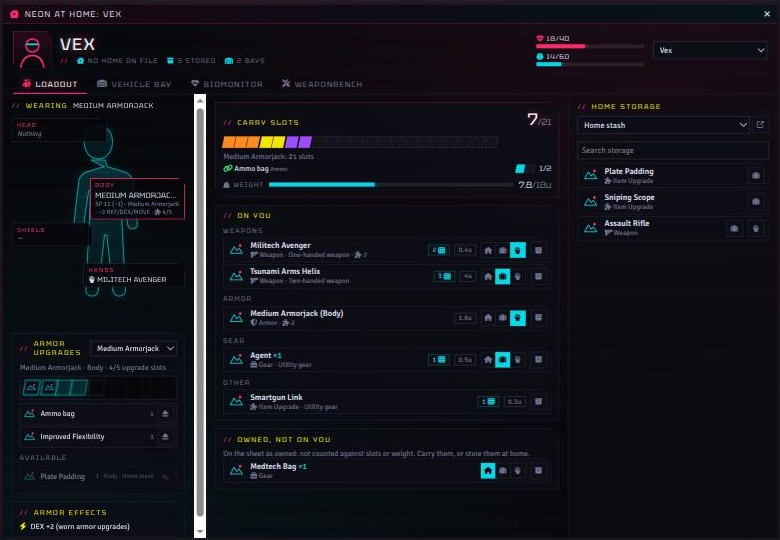
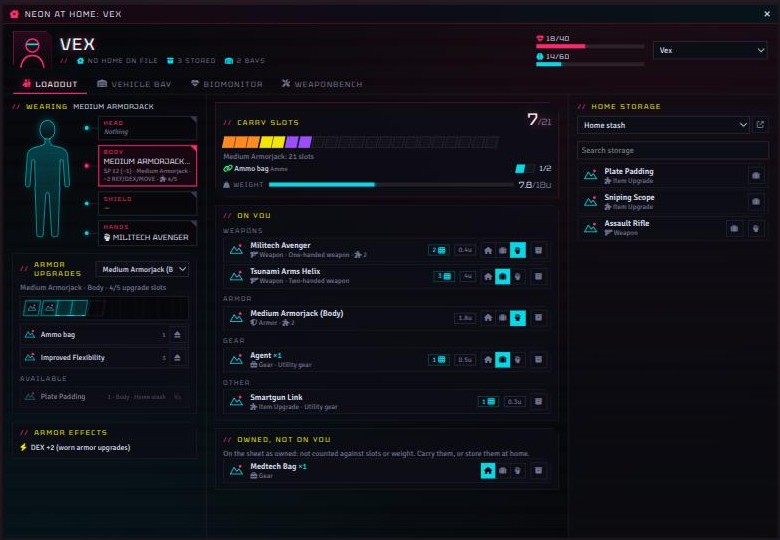
Fix Add Syndrome on v12, unstick the busy window, redraw the body figure (1.0.2)
- Add Syndrome: v12's DialogV2 render callback passes the dialog's HTML
  element, not the dialog; accept either.
- HomeApp.act always clears the busy state and catches render errors;
  refreshFor skips the extra render while an action is running; a tab whose
  context fails shows an error instead of a blank window.
- One symmetric body outline shared by the Loadout and the Biomonitor (neck
  joined, no doubled torso); the Loadout's gear slots sit beside the figure
  on leader lines instead of over it.

diff --git a/styles/neon-home.css b/styles/neon-home.css
@@ -186,7 +186,9 @@
 .neon-home [data-drop].drag-over { outline: 2px solid var(--nah-yellow) !important; background-color: rgba(243, 230, 0, 0.06); }
 .neon-home [data-drag] { cursor: grab; }
 .neon-home [data-drag].is-dragging { opacity: 0.4; }
+.neon-home.is-busy,
 .neon-home .is-busy { cursor: progress; }
+.neon-home.is-busy button,
 .neon-home .is-busy button { pointer-events: none; }
 .neon-home [data-action] { cursor: pointer; }
 
@@ -282,33 +284,37 @@
 .neon-home .nah-col-doll { border-right: 1px solid var(--nah-line); }
 .neon-home .nah-col-store { border-left: 1px solid var(--nah-line); background: rgba(13, 13, 21, 0.45); }
 
-/* the paper doll */
-.neon-home .nah-doll { position: relative; height: 330px; color: var(--nah-cyan); }
-.neon-home .nah-doll-figure { position: absolute; left: 50%; top: 4px; height: 320px; transform: translateX(-50%); filter: drop-shadow(0 0 6px rgba(5, 217, 232, 0.35)); opacity: 0.85; }
+/* the paper doll: the figure, and the gear slots beside it */
+.neon-home .nah-doll { display: grid; grid-template-columns: 112px minmax(0, 1fr); gap: 24px; align-items: start; margin-bottom: 6px; color: var(--nah-cyan); }
+.neon-home .nah-figure { display: block; width: 100%; height: auto; overflow: visible; filter: drop-shadow(0 0 6px rgba(5, 217, 232, 0.35)); }
+.neon-home .nah-fig-body,
+.neon-home .nah-fig-head { stroke: currentColor; stroke-width: 1.6; stroke-linejoin: round; }
+.neon-home .nah-fig-mask { fill: var(--nah-bg); stroke: none; }
+.neon-home .nah-fig-grid path { fill: none; stroke: currentColor; stroke-opacity: 0.3; stroke-dasharray: 2 4; }
+.neon-home .nah-doll-slots { display: flex; flex-direction: column; gap: 8px; min-width: 0; }
 .neon-home .nah-socket {
-  position: absolute;
-  width: 150px;
+  position: relative;
   display: grid;
   gap: 1px;
+  min-width: 0;
   padding: 5px 8px;
   color: var(--nah-text);
   border: 1px solid var(--nah-line-2);
-  background: rgba(7, 7, 11, 0.88);
-  clip-path: var(--nah-notch-card);
+  background: linear-gradient(225deg, var(--nah-line-2) 0 7px, transparent 7px), rgba(7, 7, 11, 0.88);
   font-size: 12px;
   transition: border-color 120ms, box-shadow 120ms;
 }
+/* leader line and node toward the figure */
+.neon-home .nah-socket::before { content: ""; position: absolute; right: 100%; top: 50%; width: 18px; border-top: 1px dashed rgba(5, 217, 232, 0.55); }
+.neon-home .nah-socket::after { content: ""; position: absolute; right: calc(100% + 16px); top: calc(50% - 3px); width: 6px; height: 6px; border-radius: 50%; background: var(--nah-cyan); box-shadow: 0 0 6px var(--nah-cyan); }
 .neon-home .nah-socket:hover { border-color: var(--nah-cyan); }
-.neon-home .nah-socket.selected { border-color: var(--nah-pink); box-shadow: inset 0 0 0 1px var(--nah-pink); }
+.neon-home .nah-socket.selected { border-color: var(--nah-pink); box-shadow: inset 0 0 0 1px var(--nah-pink); background: linear-gradient(225deg, var(--nah-pink) 0 7px, transparent 7px), rgba(26, 7, 18, 0.9); }
+.neon-home .nah-socket.selected::after { background: var(--nah-pink); box-shadow: 0 0 6px var(--nah-pink); }
+.neon-home .nah-socket.selected::before { border-top-color: rgba(255, 42, 109, 0.7); }
 .neon-home .nah-socket-label { font-family: var(--nah-display); font-size: 9px; letter-spacing: 0.24em; text-transform: uppercase; color: var(--nah-pink); }
 .neon-home .nah-socket b { font-family: var(--nah-display); font-weight: 400; font-size: 12px; letter-spacing: 0.04em; text-transform: uppercase; white-space: nowrap; overflow: hidden; text-overflow: ellipsis; }
 .neon-home .nah-socket small { font-size: 10px; color: var(--nah-dim); }
 .neon-home .nah-socket em { font-size: 11px; color: var(--nah-dim); }
-.neon-home .nah-socket-head { left: 0; top: 4px; }
-.neon-home .nah-socket-body { right: 0; top: 98px; width: 176px; }
-.neon-home .nah-socket-shield { left: 0; top: 168px; width: 128px; }
-.neon-home .nah-socket-hands { right: 0; top: 232px; width: 160px; }
-.neon-home .nah-socket-hands b { font-size: 11px; }
 .neon-home .nah-worn { list-style: none; margin: 4px 0 0; padding: 0; display: flex; flex-wrap: wrap; gap: 4px; }
 .neon-home .nah-worn li { display: flex; align-items: center; gap: 4px; padding: 2px 6px 2px 2px; font-size: 11px; border: 1px solid var(--nah-line); background: var(--nah-bg-2); }
 .neon-home .nah-worn li.is-gear { border-color: rgba(57, 255, 136, 0.45); }
@@ -437,21 +443,26 @@
 @keyframes nah-ekg { from { transform: translateX(0); } to { transform: translateX(-50%); } }
 @media (prefers-reduced-motion: reduce) { .neon-home .nah-ekg svg, .neon-home .nah-scanline { animation: none !important; } }
 
-.neon-home .nah-scan { position: relative; height: 300px; color: var(--nah-cyan); border: 1px solid var(--nah-line); background: radial-gradient(ellipse at 50% 40%, rgba(5, 217, 232, 0.08), transparent 70%), var(--nah-bg); }
-.neon-home .nah-scan-figure { position: absolute; left: 50%; top: 8px; height: 284px; transform: translateX(-50%); overflow: visible; }
-.neon-home .nah-zone { fill: rgba(5, 217, 232, 0.12); stroke: var(--nah-cyan); stroke-width: 1.2; }
+.neon-home .nah-scan { position: relative; height: 300px; overflow: hidden; color: var(--nah-cyan); border: 1px solid var(--nah-line); background: radial-gradient(ellipse at 50% 40%, rgba(5, 217, 232, 0.08), transparent 70%), var(--nah-bg); }
+.neon-home .nah-scan-figure { position: absolute; left: 50%; top: 10px; width: auto; height: 280px; transform: translateX(-50%); }
+.neon-home .nah-zone { fill: rgba(5, 217, 232, 0.12); stroke: var(--nah-cyan); stroke-width: 1.4; stroke-linejoin: round; }
 .neon-home .nah-zone.is-hurt { fill: rgba(255, 42, 109, 0.35); stroke: var(--nah-pink); animation: nah-pulse 1.4s ease-in-out infinite; }
 @keyframes nah-pulse { 50% { fill: rgba(255, 42, 109, 0.12); } }
 .neon-home .nah-scanline { stroke: var(--nah-cyan); stroke-opacity: 0.6; stroke-width: 2; animation: nah-scan 4s ease-in-out infinite; }
 @keyframes nah-scan { 0%, 100% { transform: translateY(10px); } 50% { transform: translateY(350px); } }
-.neon-home .nah-scan-tag { position: absolute; display: grid; padding: 4px 8px; font-size: 11px; border: 1px solid var(--nah-line-2); background: rgba(7, 7, 11, 0.88); clip-path: var(--nah-notch-card); }
+.neon-home .nah-scan-tag::before { content: ""; position: absolute; top: 50%; width: 28px; border-top: 1px dashed rgba(5, 217, 232, 0.5); }
+.neon-home .nah-scan-tag-head::before,
+.neon-home .nah-scan-tag-shield::before { left: 100%; }
+.neon-home .nah-scan-tag-body::before { right: 100%; }
+.neon-home .nah-scan-tag.is-hurt::before { border-top-color: rgba(255, 42, 109, 0.7); }
+.neon-home .nah-scan-tag { position: absolute; overflow: visible; display: grid; padding: 4px 8px; font-size: 11px; border: 1px solid var(--nah-line-2); background: linear-gradient(225deg, var(--nah-line-2) 0 7px, transparent 7px), rgba(7, 7, 11, 0.88); }
 .neon-home .nah-scan-tag span { font-family: var(--nah-display); font-size: 9px; letter-spacing: 0.22em; text-transform: uppercase; color: var(--nah-dim); }
 .neon-home .nah-scan-tag b { font-family: var(--nah-display); font-weight: 400; font-size: 14px; color: #fff; }
 .neon-home .nah-scan-tag em { font-style: normal; color: var(--nah-pink); }
 .neon-home .nah-scan-tag.is-hurt { border-color: var(--nah-pink); }
-.neon-home .nah-scan-tag-head { left: 10px; top: 16px; }
-.neon-home .nah-scan-tag-body { right: 10px; top: 110px; }
-.neon-home .nah-scan-tag-shield { left: 10px; top: 190px; }
+.neon-home .nah-scan-tag-head { left: 12px; top: 24px; }
+.neon-home .nah-scan-tag-body { right: 12px; top: 96px; }
+.neon-home .nah-scan-tag-shield { left: 12px; top: 150px; }
 .neon-home .nah-hp,
 .neon-home .nah-hum { margin-top: 10px; }
 .neon-home .nah-hp-head { display: flex; align-items: baseline; gap: 10px; }

diff --git a/scripts/apps/home-app.js b/scripts/apps/home-app.js
@@ -89,7 +89,8 @@ export class HomeApp extends HandlebarsApplicationMixin(ApplicationV2) {
     if (home.stash) related.add(home.stash);
     for (const v of home.vehicles) related.add(v.uuid.split(".Item.")[0]);
     const uuid = doc.documentName === "Item" ? doc.parent?.uuid : doc.uuid;
-    if (related.has(uuid)) app.render();
+    // While an action runs, it re-renders when it's done: don't render twice.
+    if (related.has(uuid) && !app.busy) app.render();
   }
 
   get actor() {
@@ -142,7 +143,16 @@ export class HomeApp extends HandlebarsApplicationMixin(ApplicationV2) {
       },
       featureTemplate: f?.template ?? null
     };
-    if (f && actor) Object.assign(context, await f.prepare(this, actor, context));
+    if (f && actor) {
+      // A tab that fails shows why instead of leaving the window blank.
+      try {
+        Object.assign(context, await f.prepare(this, actor, context));
+      } catch (err) {
+        console.error(`${MODULE_ID} | the ${tab} tab failed to prepare`, err);
+        context.featureTemplate = null;
+        context.featureError = err?.message ?? String(err);
+      }
+    }
     return context;
   }
 
@@ -150,7 +160,7 @@ export class HomeApp extends HandlebarsApplicationMixin(ApplicationV2) {
   async _onRender(context, options) {
     await super._onRender(context, options);
     const root = this.element;
-    root.classList.toggle("is-busy", this.busy);
+    root.classList.remove("is-busy");
     const picker = root.querySelector("select.nah-picker");
     if (picker && !picker.dataset.bound) {
       picker.dataset.bound = "1";
@@ -176,8 +186,11 @@ export class HomeApp extends HandlebarsApplicationMixin(ApplicationV2) {
     try {
       return await HomeOps.run(fn);
     } finally {
+      // Whatever happened, the window must come back to life.
       this.busy = false;
-      if (this.rendered) this.render();
+      this.element?.classList.remove("is-busy");
+      this.element?.querySelector(".nah-root")?.classList.remove("is-busy");
+      if (this.rendered) this.render().catch((err) => console.error(`${MODULE_ID} | render failed`, err));
     }
   }
 

diff --git a/scripts/apps/biomonitor.js b/scripts/apps/biomonitor.js
@@ -55,10 +55,11 @@ async function syndromeDialog(defaultTier) {
     content,
     classes: ["neon-home-dialog"],
     rejectClose: false,
-    // v12 passes only the event (its target is the dialog); v13 passes the dialog too.
-    render: (event, dialog) => {
-      const app = dialog ?? event?.target;
-      const form = app.element.querySelector("form") ?? app.element;
+    // v12 passes the dialog's HTML element, v13 the dialog itself; the event's target is the dialog.
+    render: (event, arg) => {
+      const root = arg instanceof HTMLElement ? arg : arg?.element ?? event?.target?.element;
+      if (!root) return;
+      const form = root.querySelector("form") ?? root;
       const key = form.querySelector("[name=key]");
       const sync = () => {
         const k = key.value;

diff --git a/CHANGELOG.md b/CHANGELOG.md
@@ -1,5 +1,12 @@
 # Changelog
 
+## 1.0.2
+
+- **Fixed: Add Syndrome didn't open its window** on Foundry v12 (it read the dialog the v13 way).
+- **The window can't get stuck "busy" any more.** After a change (like raising Catharsis) the window always comes back, it no longer redraws twice for one change, and a tab that fails says so instead of going blank (with the details in the console).
+- **New body figure** for the Loadout and the Biomonitor: one clean outline with the neck joined to the shoulders, and no doubled upper body on the Biomonitor scan.
+- **Loadout:** the figure has its own column, with the head, body, shield and hands slots stacked beside it on leader lines instead of covering it.
+
 ## 1.0.1
 
 - **Fixed: the Home window didn't open** from the Token Controls button, the character sheet or the Actors sidebar. The window kept its tab state in a property Foundry's application class already reserves, which stopped it from being created.
